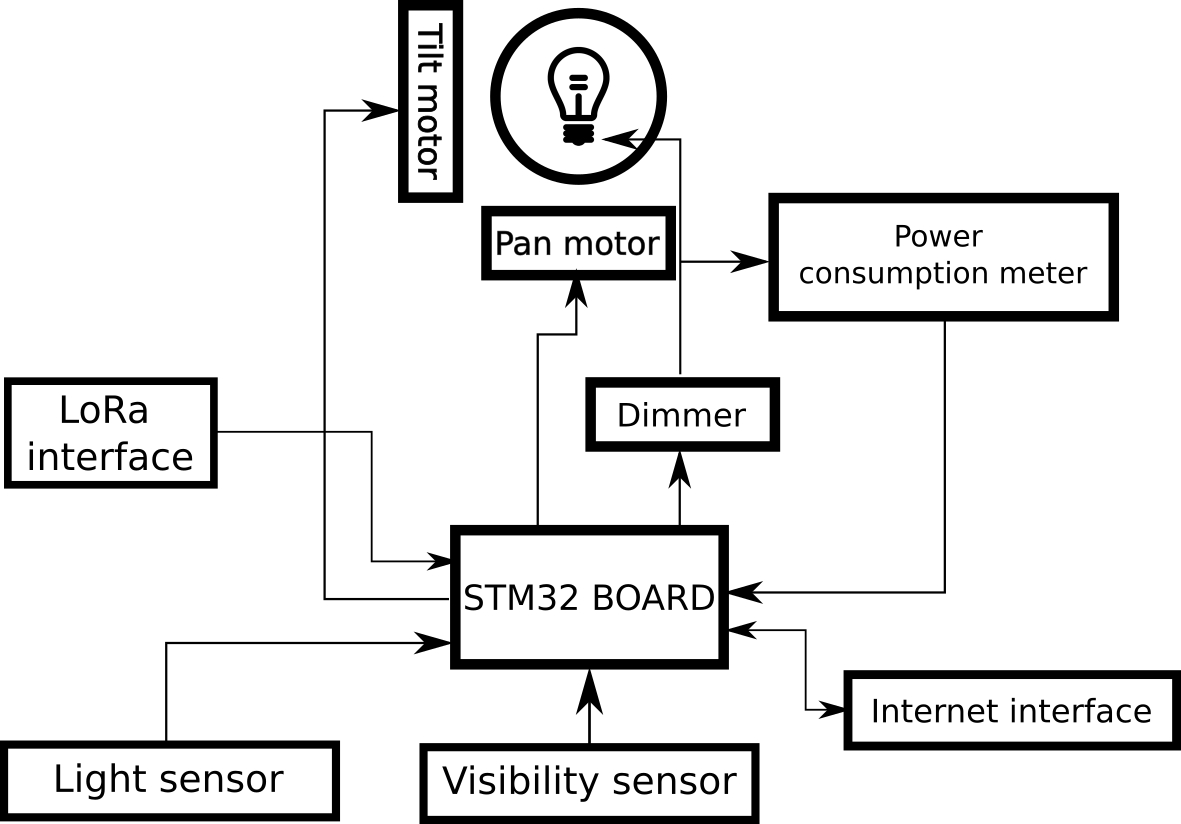
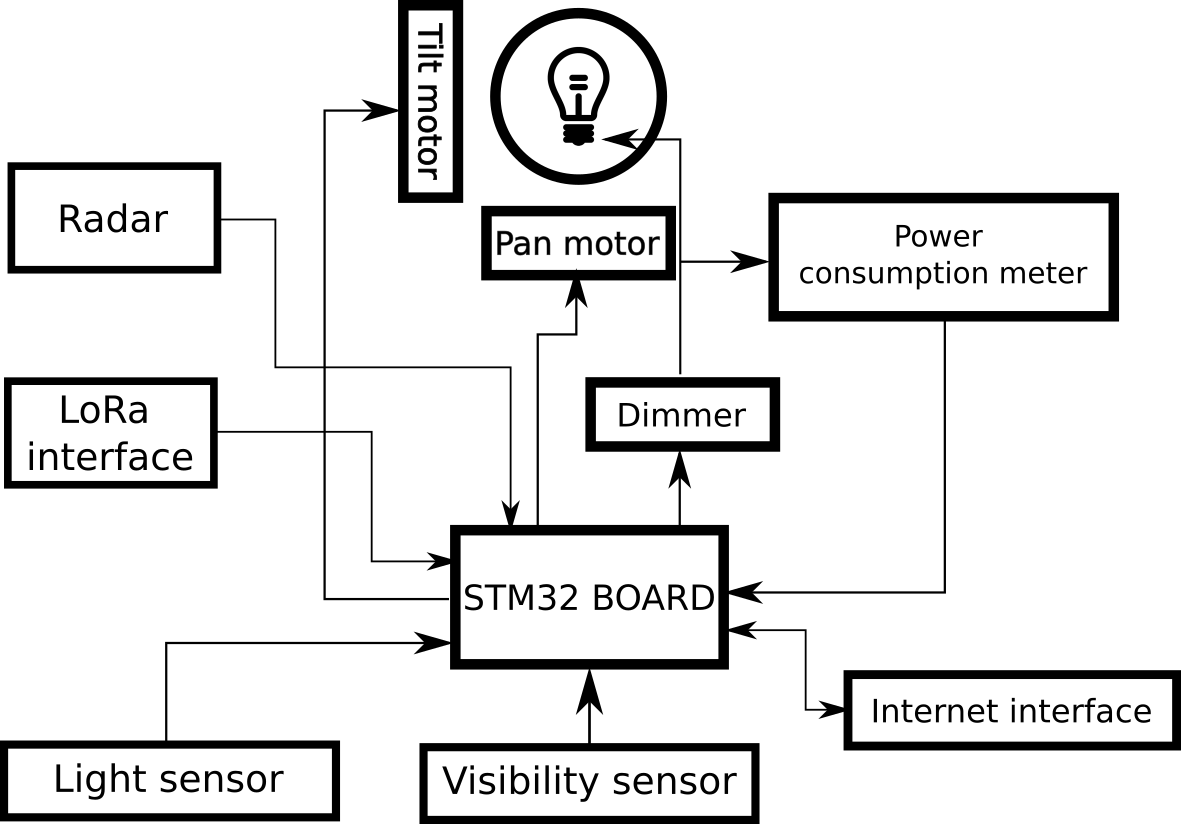
Added Radar

Changed region(s): [[0.0, 0.182, 0.2134, 0.3337], [0.2439, 0.4248, 0.4268, 0.4551], [0.4268, 0.6068, 0.4572, 0.6371]]

diff --git a/Technology.md b/Technology.md
@@ -9,6 +9,7 @@ Lighthouse hardware high level diagram
   - **2 Servo motors** to orient the beam.
   - **Visibility sensor** to measure the visibility of the air.
   - **Power consumption meter** helpful for evaluation.
+  - **Radar** to warn a near boat without GPS
   - **STM32 Board**
   - **LoRa receiver** to receive data from the boats when they are near.
   - **Internet interface** to connect the lighthouse to the Internet connection provided by an ISP.
@@ -34,6 +35,8 @@ Boat hardware high level diagram
 - **Lighthouse** sends visibility data via an MQTT broker and receive the position of the boats to light, not in GPS coordinates but form the lighthouse point of view (Pan, Tilt degrees and light intensity).
 
   It also send power consumption to the cloud via MQTT that is used for monitoring.
+
+  If there are some boats without a GPS they will be detected with a RADAR but with a lower precision rather than the GPS system. There radar has also a limited range.
 
 - **Cloud** Receives the GPS position and visibility data from the boats. It process data and send to the lighthouse a list of all positions to light, each of them with a computed intensity, the list is ordered in such a way to have a smooth movement of the light and that all boats are lighted in the minimum amount of time.
 
